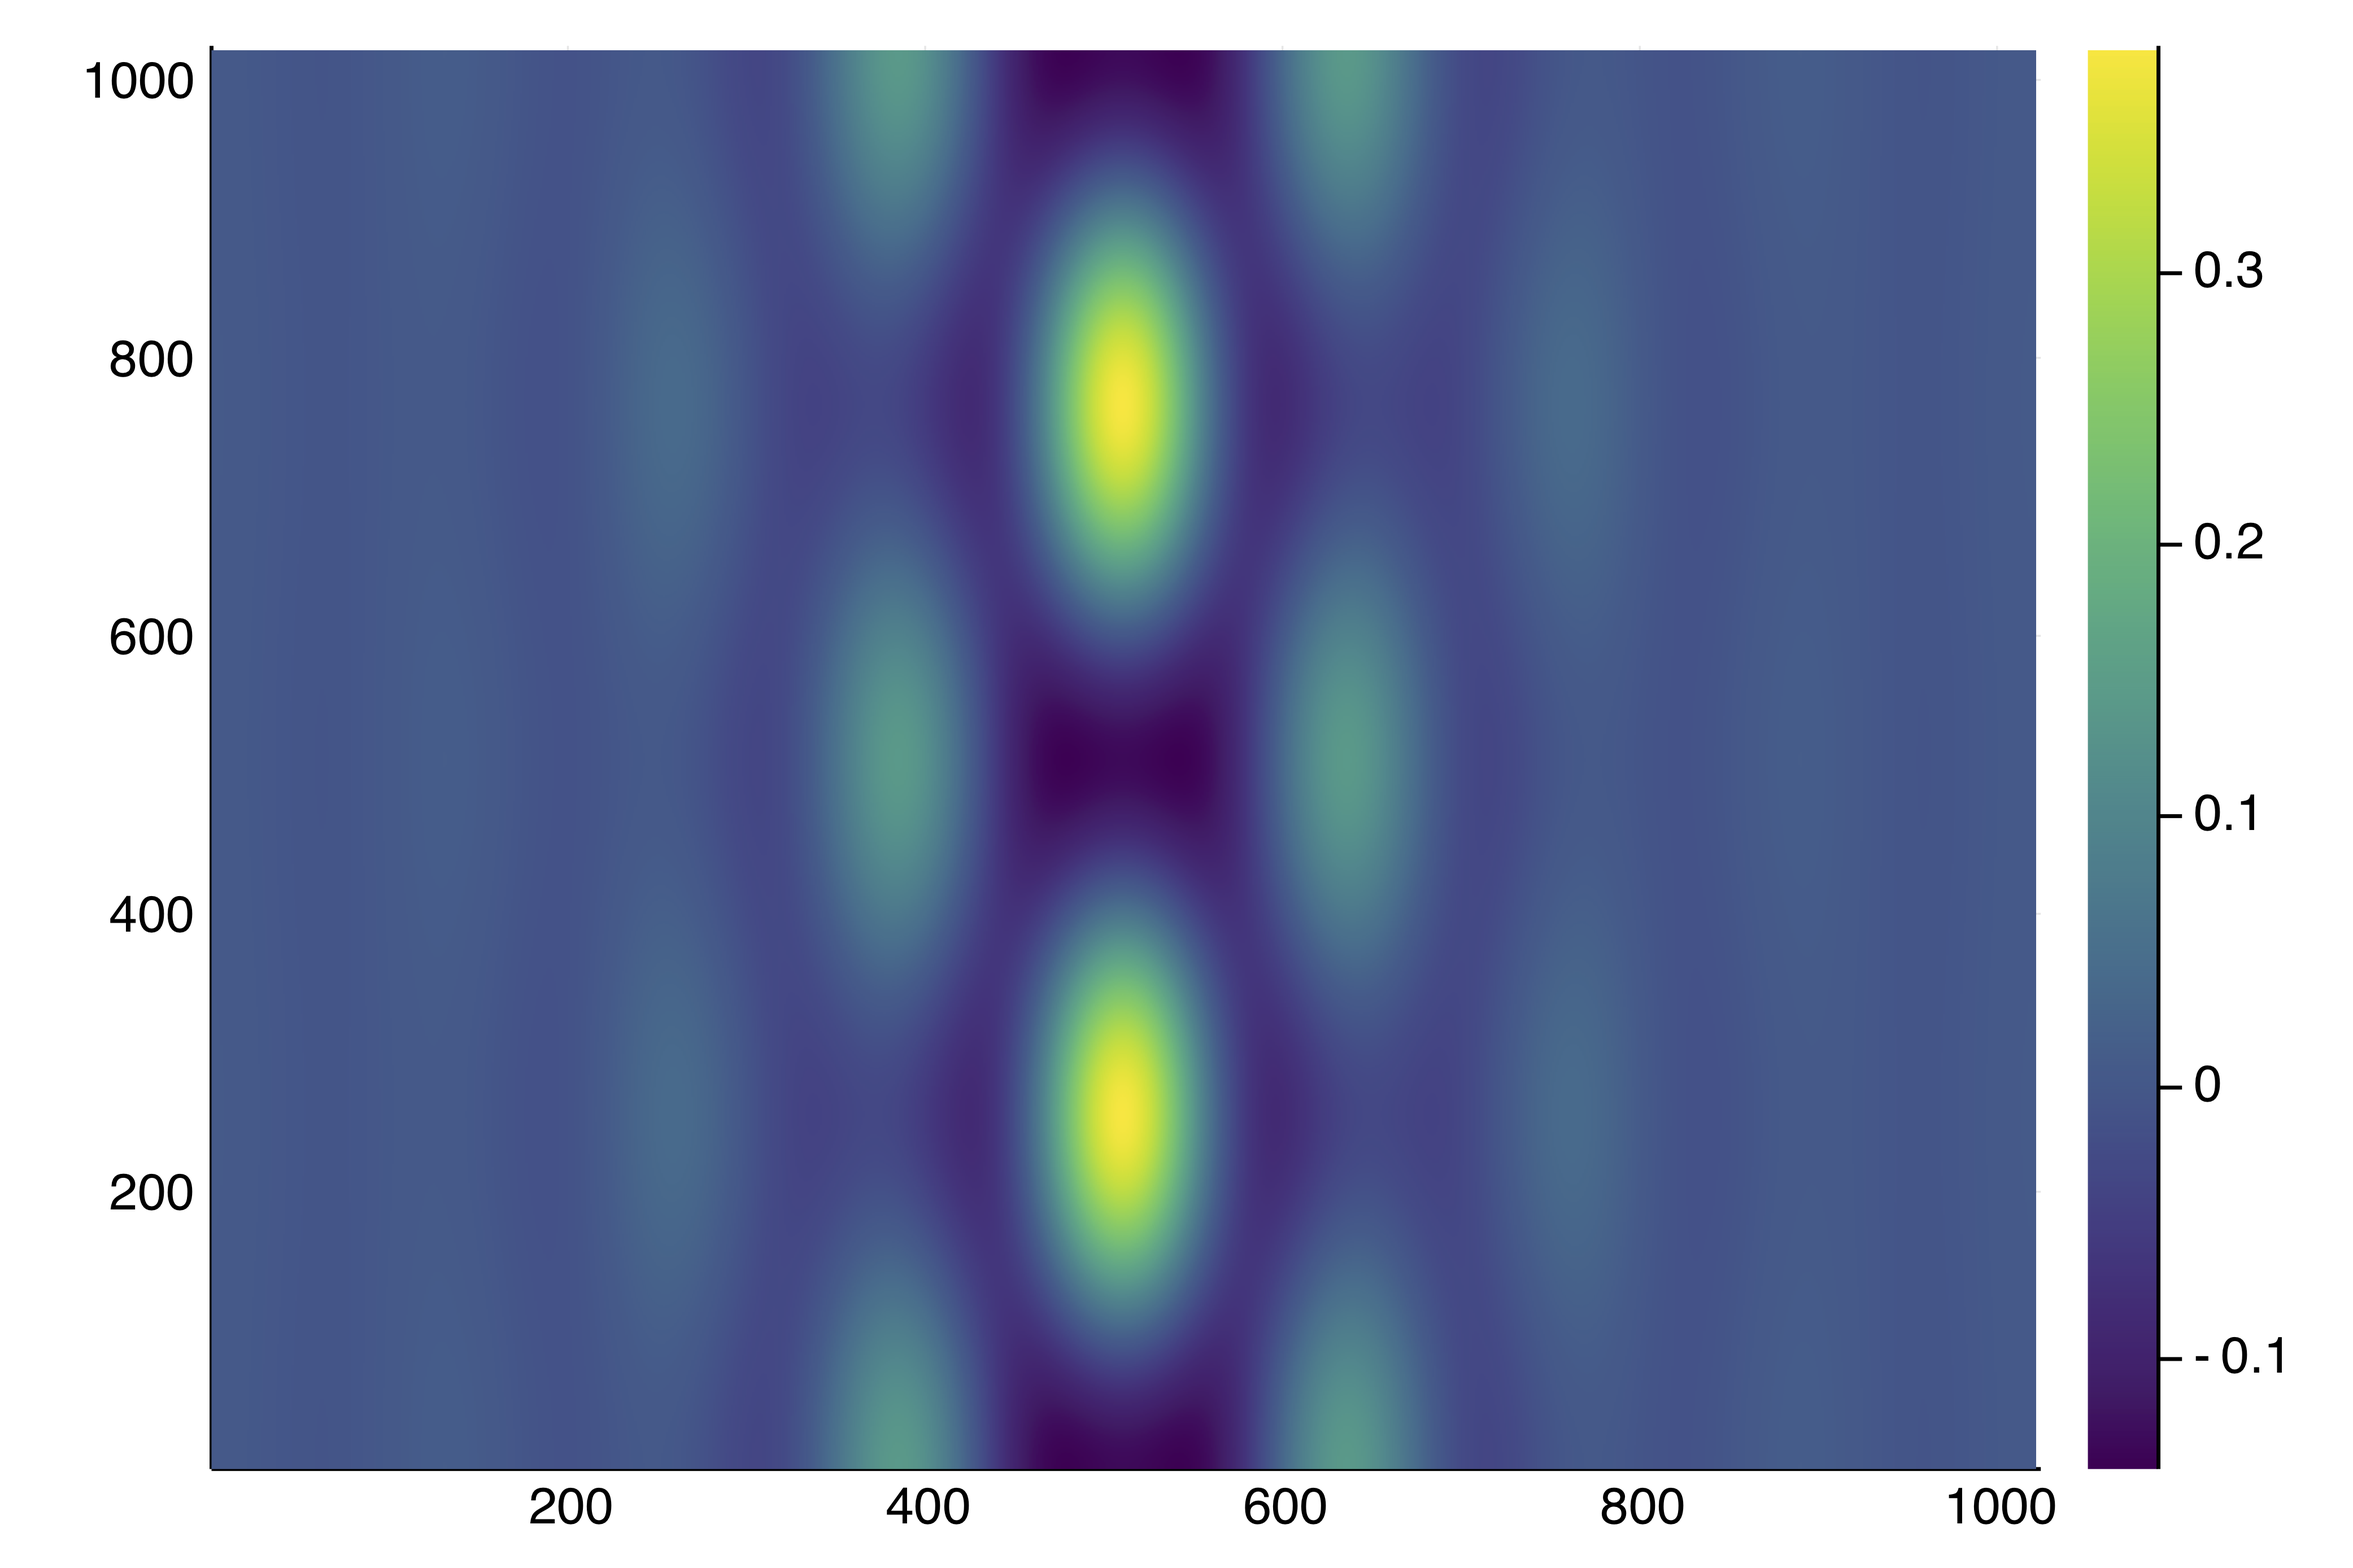
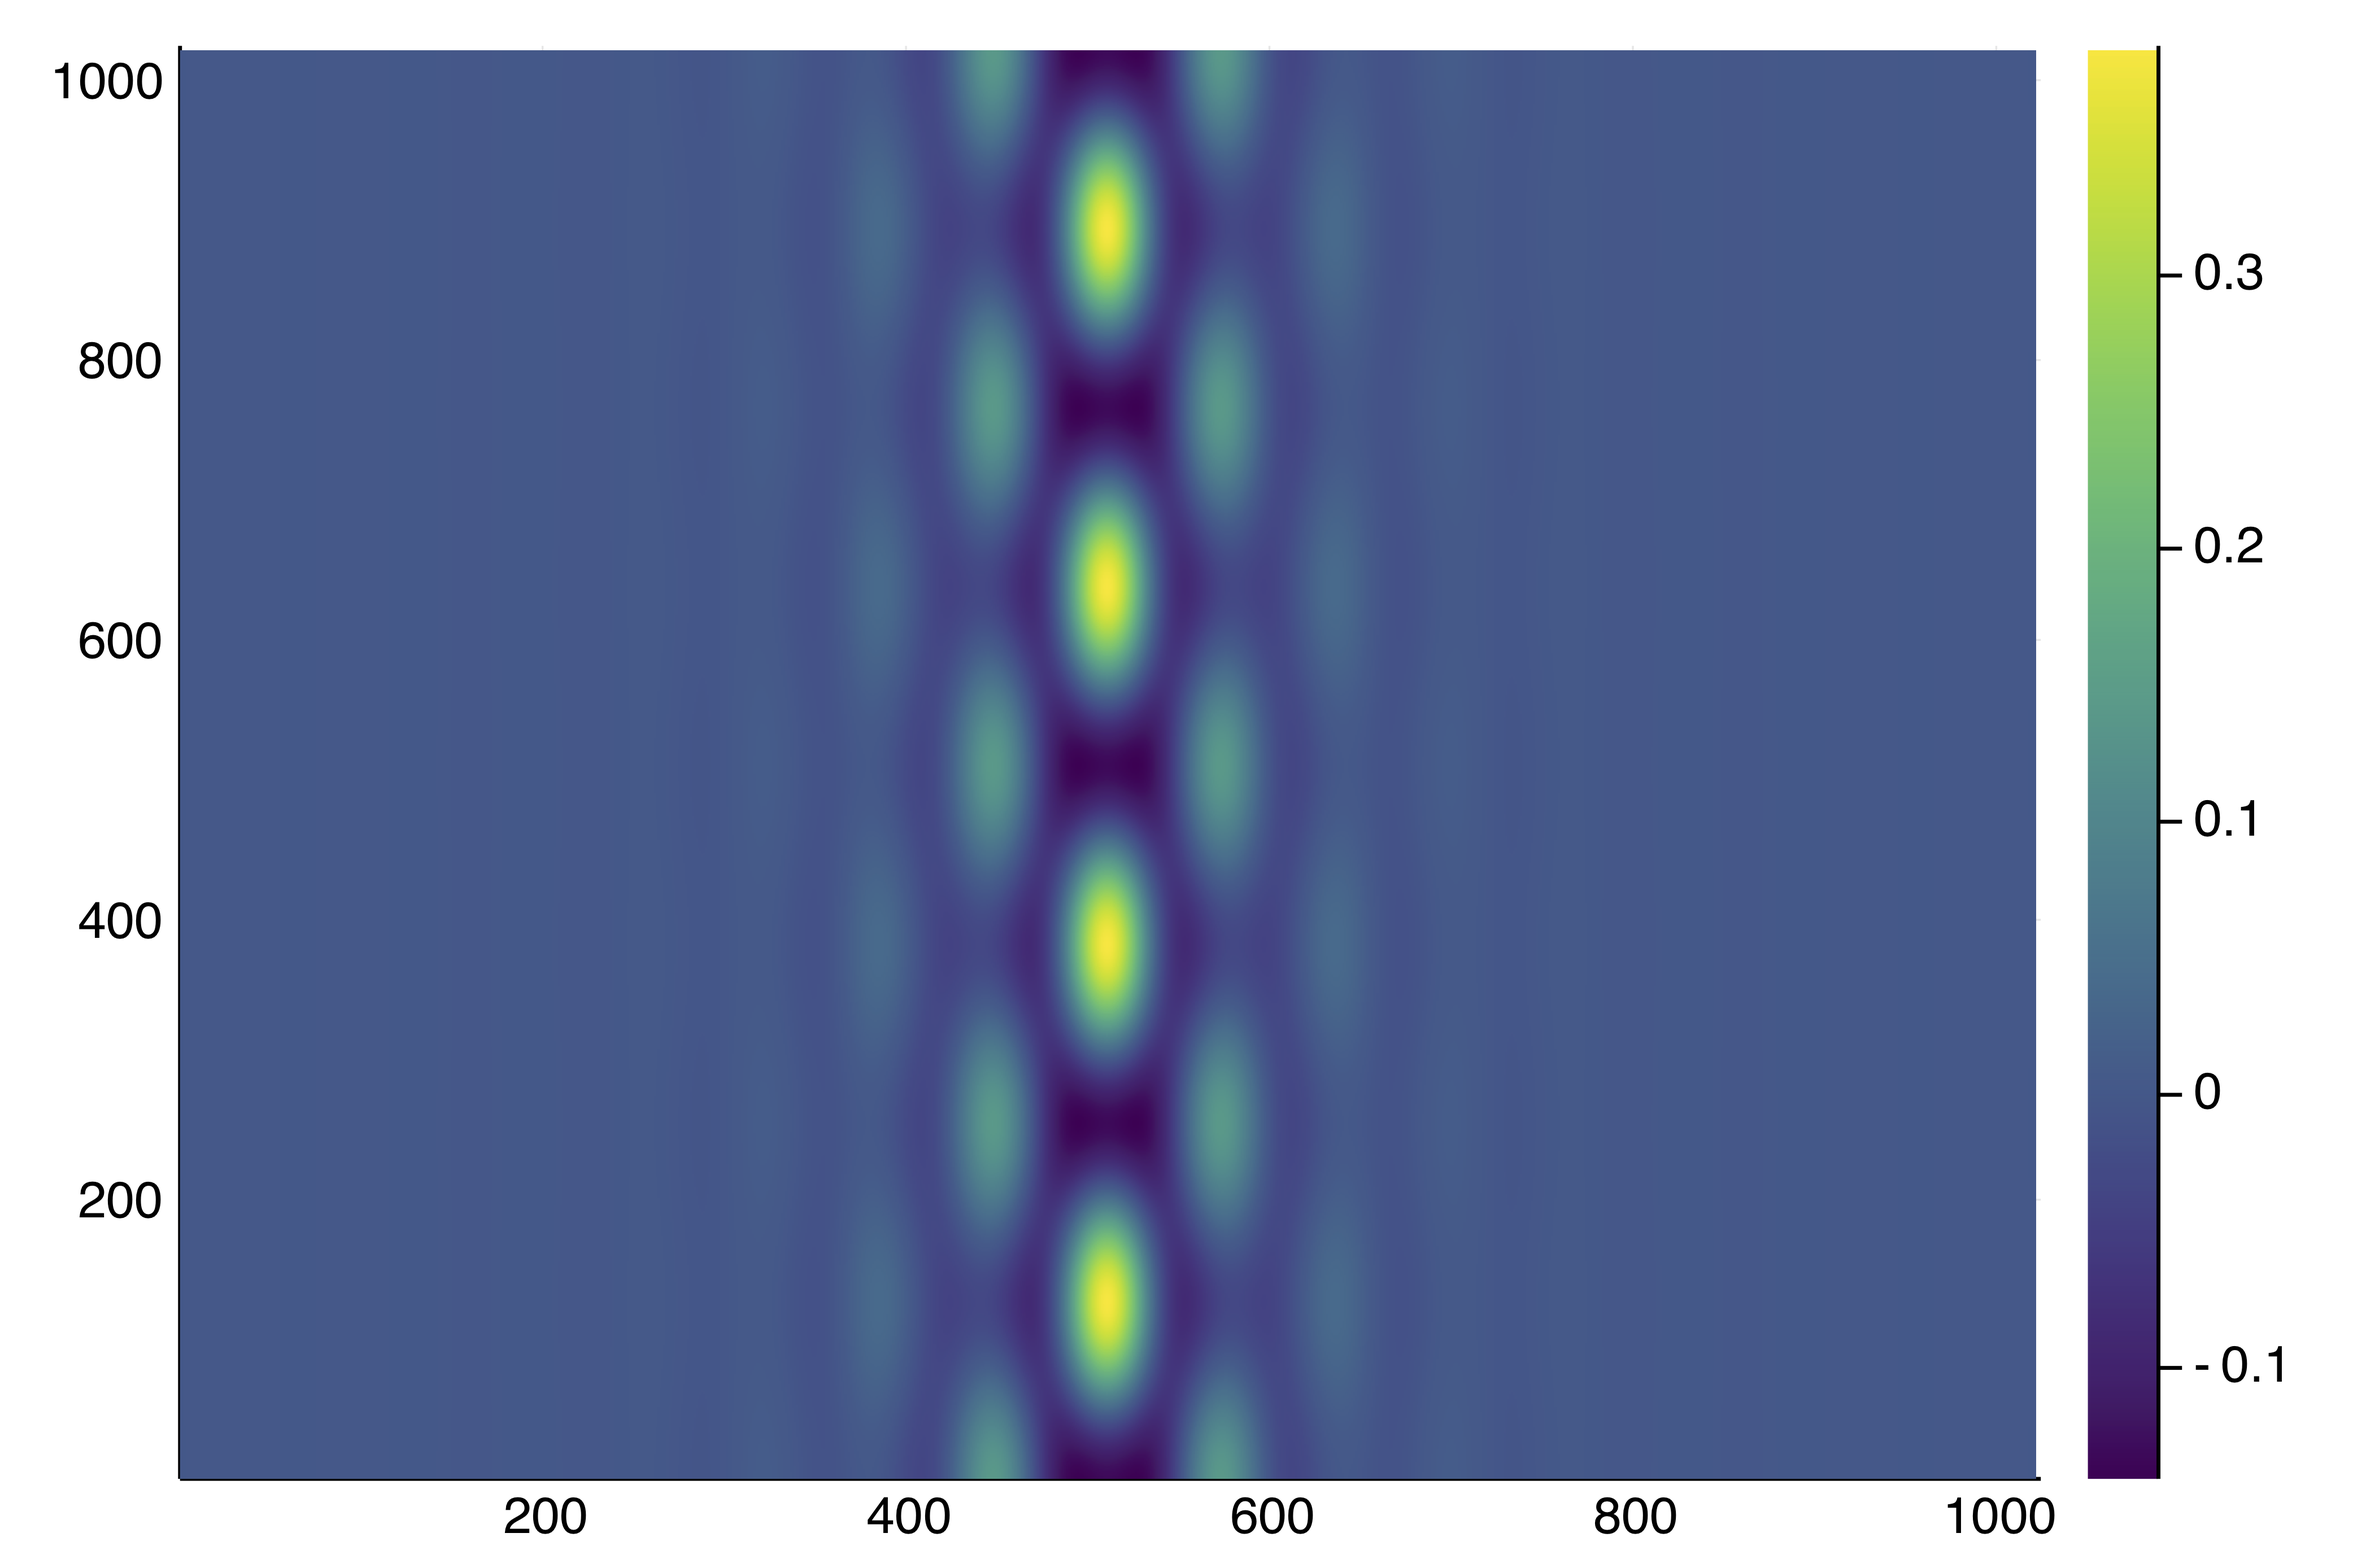
update GPU example

diff --git a/README.md b/README.md
@@ -6,9 +6,9 @@
 
 This Julia package aims at solving equations F(u,λ)=0 where λ∈ℝ starting from an initial guess (u0,λ0). It relies on the pseudo arclength continuation algorithm which provides a *predictor* (u1,λ1) from (u0,λ0). A Newton method is then used to correct this predictor.
 
-The current package focuses on large scale problem and multiple hardwares. Hence, the goal is to use Matrix Free methods on GPU or a cluster to solve non linear PDE (for example).
+The current package focuses on large scale problems and multiple hardwares. Hence, the goal is to use Matrix Free methods on **GPU** (see [example](https://rveltz.github.io/PseudoArcLengthContinuation.jl/dev/#Example-5:-the-Swift-Hohenberg-equation-on-the-GPU-1)) or on a **cluster** to solve non linear PDE (for example).
 
-**If you use this package for your work, please cite it!! Open source development strongly depends on this. It is hosted on HAL-Inria as follows:**
+**If you use this package for your work, please cite it!! Open source development strongly depends on this. It is referenced on HAL-Inria as follows:**
 
 ```
 @misc{veltz:hal-02071874,
@@ -36,28 +36,29 @@ The package is located [here](https://github.com/rveltz/PseudoArcLengthContinuat
 
 ## Main features
 
-- Matrix Free Newton solver with generic linear / eigen solver. Idem for the arc-length continuation
+- Matrix Free Newton solver with generic linear / eigen solver. Idem for the arc-length continuation.
 - Matrix Free Newton solver with deflation. It can be used for branch switching for example.
 - Fold / Hopf bifurcation detection
-- Fold / Hopf with MatrixFree / Sparse Jacobian continuation with Minimally Augmented formulation
+- Fold / Hopf with MatrixFree / Sparse Jacobian continuation with Minimally Augmented. formulation.
 - Periodic orbit computation and continuation using Simple Shooting (not very stable yet) or Finite Differences.
-- Custom state means, can we use something else than `AbstractVector`
+
+Custom state means, can we use something else than `AbstractVector`:
 
 
-|Feature|Matrix Free|Custom state|
-|---|---|---|
-| Newton | Y | Y |
-| Newton + Deflation| Y | Y |
-| Continuation (Natural, Secant, Tangent) | Y | Y |
-| Branching point detection | Y | Y |
-| Fold detection | Y | Y |
-| Hopf detection | Y | Y |
-| Fold continuation | Y | Y |
-| Hopf continuation | Y | `AbstractVector` |
-| Periodic Orbit Newton | Y | `AbstractVector` |
-| Periodic Orbit continuation | Y | `AbstractVector` |
+|Feature|Matrix Free|Custom state| Example |
+|---|---|---|---|
+| Newton | Y | Y |1 - 5 |
+| Newton + Deflation| Y | Y | 1, 2, 5|
+| Continuation (Natural, Secant, Tangent) | Y | Y | 1 - 5 |
+| Branching point detection | Y | Y |  |
+| Fold detection | Y | Y | 1 - 5 |
+| Hopf detection | Y | Y | 3 |
+| Fold continuation | Y | Y | 1 |
+| Hopf continuation | Y | `AbstractVector` | 3 |
+| Periodic Orbit Newton | Y | `AbstractVector` | 3 |
+| Periodic Orbit continuation | Y | `AbstractVector` | 3 |
 
-## To do
+## To do or grab
 - [x] Improve Sparse Matrix creation of the Jacobian for the Periodic Orbit problem with Finite Differences
 - [ ] Compute Hopf Normal Form
 - [ ] Implement Preconditioner for the Matrix Free computation of Periodic Orbits based on Finite Differences

diff --git a/docs/src/index.md b/docs/src/index.md
@@ -905,10 +905,10 @@ const Cont = PseudoArcLengthContinuation
 # to simplify plotting of the solution
 heatmapsol(x) = heatmap(reshape(Array(x)), Nx, Ny)', color=:viridis)
 
-Nx = 1024
-Ny = 1024
-lx = 8pi
-ly = 2*2pi/sqrt(3)
+Nx = 2^10
+Ny = 2^10
+lx = 8pi * 2
+ly = 2*2pi/sqrt(3) * 2
 
 X = -lx .+ 2lx/(Nx) * collect(0:Nx-1)
 Y = -ly .+ 2ly/(Ny) * collect(0:Ny-1)
@@ -929,7 +929,7 @@ Before applying a Newton solver, we need to show how to solve the linear equatio
 function (sh::SHLinearOp)(J, rhs)
 	u, l, ν = J
 	udiag = l .+ 1 .+ 2ν .* u .- 3 .* u.^2
-	res, info = KrylovKit.linsolve( u -> -u .+ sh \ (udiag .* u), sh \ rhs )
+	res, info = res, info = KrylovKit.linsolve( u -> -u .+ sh \ (udiag .* u), sh \ rhs, tol = 1e-9, maxiter = 6) 
 	return res, true, info.numops
 end
 ```
@@ -938,7 +938,7 @@ end
 We are now ready to perform Newton iterations:
 
 ```julia
-pt_new = Cont.NewtonPar(verbose = true, tol = 1e-6, maxIter = 100, linsolve = L, eigsolve = Leig)
+pt_new = Cont.NewtonPar(verbose = true, tol = 1e-6, maxIter = 100, linsolve = L)
 	sol_hexa, hist, flag = @time Cont.newton(
 				x -> F_shfft(x, -.1, 1.3, shlop = L),
 				u -> (u, -0.1, 1.3),
@@ -954,18 +954,18 @@ You should see this:
  Newton Iterations 
    Iterations      Func-count      f(x)      Linear-Iterations
 
-        0                1     2.7382e-01         0
-        1                2     1.2891e+02        13
-        2                3     3.8139e+01        25
-        3                4     1.0740e+01        20
-        4                5     2.8787e+00        17
-        5                6     7.7522e-01        14
-        6                7     1.9542e-01        12
-        7                8     3.0292e-02        12
-        8                9     1.1597e-03        12
-        9               10     2.4577e-06        13
-       10               11     7.5879e-07        10
-  3.855506 seconds (490.05 k allocations: 50.543 MiB, 5.45% gc time)
+        0                1     2.7383e-01         0
+        1                2     1.2891e+02        14
+        2                3     3.8139e+01        70
+        3                4     1.0740e+01        37
+        4                5     2.8787e+00        22
+        5                6     7.7522e-01        17
+        6                7     1.9542e-01        13
+        7                8     3.0292e-02        13
+        8                9     1.1594e-03        12
+        9               10     1.8842e-06        11
+       10               11     4.2642e-08        10
+  2.261527 seconds (555.45 k allocations: 44.849 MiB, 1.61% gc time)
 --> norm(sol) = 1.26017611779702
 ```
 
@@ -1008,7 +1008,7 @@ opts_cont = ContinuationPar(dsmin = 0.001, dsmax = 0.005, ds= -0.0015, pMax = -0
 
 	br, u1 = @time Cont.continuation(
 		(u, p) -> F_shfft(u, p, 1.3, shlop = L),
-		(u, p) -> (u, p, 1.3, L),
+		(u, p) -> (u, p, 1.3),
 		deflationOp.roots[1],
 		-0.1,
 		opts_cont, plot = true,
